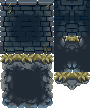
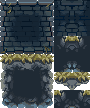
player now collides with ties instead of platforms

Changed region(s): [[0.6, 0.8333, 1.0, 1.0], [0.2, 0.8889, 0.4, 1.0]]

diff --git a/Backtrack/Backtrack/Game.h b/Backtrack/Backtrack/Game.h
@@ -16,7 +16,6 @@
 #include <SFML/Graphics.hpp>
 #include <SFML/Audio.hpp>
 #include "Player.h"
-#include "Platform.h"
 #include "Tile.h"
 
 class Game
@@ -58,12 +57,12 @@ private:
 										 {0,0,0,0,0,0,0,0,0,0,0,0,0,0,0,0,0,0,0,0,0,0,0,0,0,0,0,0,0,0,0,0,0,0,0,0,0,0 },
 										 {0,0,0,0,0,0,0,0,0,0,0,0,0,0,0,0,0,0,0,0,0,0,0,0,0,0,0,0,0,0,0,0,0,0,0,0,0,0 },
 										 {0,0,0,0,0,0,0,0,0,0,0,0,0,0,0,0,0,0,0,0,0,0,0,0,0,0,0,0,0,0,0,0,0,0,0,0,0,0 },
-										 {0,0,0,0,0,0,0,0,0,0,0,0,0,0,0,0,0,0,0,0,0,0,0,0,0,0,0,0,0,0,0,0,0,0,0,0,0,0 },
-										 {0,0,0,0,0,0,0,0,0,0,0,0,0,0,0,0,0,0,0,0,0,0,0,0,0,0,0,0,0,0,0,0,0,0,0,0,0,0 },
-										 {0,0,0,0,0,0,0,0,0,0,0,0,0,0,0,0,0,0,0,0,0,0,0,0,0,0,0,0,0,0,0,0,0,0,0,0,0,0 },
-										 {0,0,0,0,0,0,0,0,0,0,0,0,0,0,0,0,0,0,0,0,0,0,0,0,0,0,0,0,0,0,0,0,0,0,0,0,0,0 },
-										 {0,0,0,0,0,0,0,0,0,0,0,0,0,0,0,0,0,0,0,0,0,0,0,0,0,0,0,0,0,0,0,0,0,0,0,0,0,0 },
-										 {0,0,0,0,0,0,0,0,0,0,0,0,0,0,0,0,0,0,0,0,0,0,0,0,0,0,0,0,0,0,0,0,0,0,0,0,0,0 },
+										 {0,0,0,0,0,0,0,0,0,0,0,0,0,0,0,0,0,0,0,0,0,0,0,0,1,1,0,0,0,0,0,0,0,0,0,0,0,0 },
+										 {0,0,0,0,0,0,0,0,0,0,0,0,0,0,0,0,0,0,0,0,0,0,0,1,1,1,0,0,0,0,0,0,0,0,0,0,0,0 },
+										 {0,0,0,0,0,0,0,0,0,0,0,0,0,0,0,0,0,0,0,0,0,0,0,1,1,0,0,0,0,0,0,0,0,0,0,0,0,0 },
+										 {0,0,0,0,0,0,0,0,0,0,0,0,0,0,0,0,0,0,0,0,0,0,0,0,0,0,0,0,0,0,0,1,1,0,0,0,0,0 },
+										 {0,0,0,0,0,0,0,0,0,0,0,0,0,0,0,0,0,0,0,0,0,0,0,0,0,0,0,0,0,0,0,1,1,1,0,0,0,0 },
+										 {0,0,0,0,0,0,0,0,0,0,0,0,0,0,0,0,0,0,0,0,0,0,0,0,0,0,0,0,0,0,0,0,1,1,0,0,0,0 },
 										 {0,0,0,0,0,0,0,0,0,0,0,0,0,0,0,0,0,0,0,0,1,1,1,1,0,0,0,0,0,0,0,0,0,0,0,0,0,0 },
 										 {0,0,0,0,0,0,0,0,0,0,0,0,0,0,0,0,0,0,0,1,1,1,1,1,1,1,0,0,0,0,0,0,0,0,0,0,0,0 },
 										 {0,0,0,0,0,1,1,1,0,0,0,0,0,0,0,0,0,0,0,1,1,1,1,1,1,1,0,0,0,0,0,0,0,0,0,0,0,0 },
@@ -71,9 +70,9 @@ private:
 										 {0,0,0,0,0,0,1,1,1,1,0,0,0,0,0,0,0,0,0,0,0,1,1,1,1,1,1,1,0,0,0,0,0,0,0,0,0,0 },
 										 {0,0,0,0,0,0,0,0,0,0,0,0,0,0,0,0,0,0,0,0,0,1,1,1,1,1,1,1,0,0,0,0,0,0,0,0,0,0 },
 										 {0,0,0,0,0,0,0,0,0,0,0,1,1,1,0,0,0,0,0,0,0,0,0,1,1,1,0,0,0,0,0,0,0,0,0,0,0,0 },
-										 {0,0,0,1,1,1,1,1,1,1,1,1,1,1,0,0,0,0,0,0,0,0,0,0,0,0,0,0,0,0,0,0,0,0,0,0,0,0 },
-										 {0,0,0,1,1,1,1,1,1,1,1,1,1,0,0,0,0,0,0,0,0,0,0,0,0,0,0,0,0,0,0,0,0,0,0,0,0,0 },
-										 {0,0,0,0,0,0,0,0,0,0,0,0,0,0,0,0,0,0,0,0,0,0,0,0,0,0,0,0,0,0,0,0,0,0,0,0,0,0 },
+										 {0,0,1,1,1,1,1,1,1,1,1,1,1,1,0,0,0,0,0,0,0,0,0,0,0,0,0,0,0,0,0,0,0,0,0,0,0,0 },
+										 {0,0,1,1,1,1,1,1,1,1,1,1,1,0,0,0,0,0,0,0,0,0,0,0,0,0,0,0,0,0,0,0,0,0,0,0,0,0 },
+										 {0,0,0,1,1,1,1,1,0,0,0,0,0,0,0,0,0,0,0,0,0,0,0,0,0,0,0,0,0,0,0,0,0,0,0,0,0,0 },
 										 {0,0,0,0,0,0,0,0,0,0,0,0,0,0,0,0,0,0,0,0,0,0,0,0,0,0,0,0,0,0,0,0,0,0,0,0,0,1 } };
 
 	Tile m_tiles[TILE_ROWS][TILE_COLS];

diff --git a/Backtrack/Backtrack/Game.cpp b/Backtrack/Backtrack/Game.cpp
@@ -112,20 +112,24 @@ void Game::update(sf::Time t_deltaTime)
 		m_window.close();
 	}
 
-	bool noPlatformCollision = true;
+	bool noTileCollision = true;
 
-	for (Platform& platform : m_platforms)
+	for (int row = 0; row < TILE_ROWS; row++)
 	{
-		platform.activateInRange(m_player.getPosition());
-
-		if (platform.isActive() && m_player.checkGroundCollision(platform))
+		for (int col = 0; col < TILE_COLS; col++)
 		{
-			m_player.calculateGroundLevel(platform);
-			noPlatformCollision = false;
+			if (m_grid[row][col] != 0)
+			{
+				if (m_player.checkGroundCollision(m_tiles[row][col]))
+				{
+					m_player.calculateGroundLevel(m_tiles[row][col]);
+					noTileCollision = false;
+				}
+			}
 		}
 	}
 
-	if (noPlatformCollision)
+	if (noTileCollision)
 	{
 		m_player.setGroundLevel(2000.0f);
 	}
@@ -142,14 +146,6 @@ void Game::render()
 	m_window.clear(sf::Color::White);
 
 	//m_window.draw(m_backgroundSprite);
-
-	for (Platform& platform : m_platforms)
-	{
-		if (platform.isActive())
-		{
-			platform.render(m_window);
-		}
-	}
 
 	for (int row = 0; row < TILE_ROWS; row++)
 	{
@@ -212,15 +208,6 @@ void Game::setupImages()
 
 void Game::setupGame()
 {
-	Platform ground;
-	m_platforms.push_back(ground);
-
-	Platform platform1(sf::Vector2f(200.0f, 20.0f), sf::Vector2f(600.0f, 500.0f));
-	m_platforms.push_back(platform1);
-
-	Platform platform2(sf::Vector2f(200.0f, 20.0f), sf::Vector2f(400.0f, 400.0f));
-	m_platforms.push_back(platform2);
-
 	for (int row = 0; row < TILE_ROWS; row++)
 	{
 		for (int col = 0; col < TILE_COLS; col++)

diff --git a/Backtrack/Backtrack/Player.cpp b/Backtrack/Backtrack/Player.cpp
@@ -15,7 +15,7 @@ Player::Player() :
 	m_spritePosition = sf::Vector2f(m_position.x + 6.0f, m_position.y - 6.0f);
 	m_speed = 2.0f;
 
-	m_hitbox.setSize(sf::Vector2f(30.0f, 50.0f));
+	m_hitbox.setSize(sf::Vector2f(60.0f, 90.0f));
 	m_hitbox.setOrigin(m_hitbox.getSize() / 2.0f);
 	m_hitbox.setPosition(m_position);
 	m_hitbox.setFillColor(sf::Color::Transparent);
@@ -176,12 +176,12 @@ void Player::checkState()
 	}
 }
 
-bool Player::checkGroundCollision(Platform& t_platform)
+bool Player::checkGroundCollision(Tile& t_tile)
 {
 	sf::Vector2f bottomCenterPlayer = sf::Vector2f(m_position.x, m_position.y + m_hitbox.getSize().y / 2.0f);
 	bottomCenterPlayer += m_velocity;
 
-	if (t_platform.getShape().getGlobalBounds().contains(bottomCenterPlayer))
+	if (t_tile.getShape().getGlobalBounds().contains(bottomCenterPlayer))
 	{
 		return true;
 	}
@@ -191,9 +191,9 @@ bool Player::checkGroundCollision(Platform& t_platform)
 	}
 }
 
-void Player::calculateGroundLevel(Platform& t_platform)
+void Player::calculateGroundLevel(Tile& t_tile)
 {
-	m_groundLevel = t_platform.getPosition().y - t_platform.getShape().getSize().y / 2.0f - m_hitbox.getSize().y / 2.0f;
+	m_groundLevel = t_tile.getPosition().y - m_hitbox.getSize().y / 2.0f;
 }
 
 void Player::setGroundLevel(float t_groundLevel)

diff --git a/Backtrack/Backtrack/Tile.cpp b/Backtrack/Backtrack/Tile.cpp
@@ -46,8 +46,10 @@ void Tile::setTile(int t_tile, SurroundingTiles t_surrounding)
 
 void Tile::setPosition(sf::Vector2f t_position)
 {
-	rectangle.setPosition(t_position);
-	sprite.setPosition(t_position);
+	position = t_position;
+
+	rectangle.setPosition(position);
+	sprite.setPosition(position);
 }
 
 void Tile::setTexture(const sf::Texture& t_texture)
@@ -209,4 +211,40 @@ void Tile::setTextureRect(SurroundingTiles t_surrounding, int t_tileType)
 			tileRect = grassCornerBottomLeft;
 		}
 	}
+
+	if (t_surrounding.left == 1
+		&& t_surrounding.right == 1
+		&& t_surrounding.top == 1
+		&& t_surrounding.bottom == 1
+		&& t_surrounding.topRight == 0
+		&& t_surrounding.bottomLeft == 0)
+	{
+		if (t_tileType == 1)
+		{
+			tileRect = grassDiagonalLeft;
+		}
+	}
+
+	if (t_surrounding.left == 1
+		&& t_surrounding.right == 1
+		&& t_surrounding.top == 1
+		&& t_surrounding.bottom == 1
+		&& t_surrounding.topLeft == 0
+		&& t_surrounding.bottomRight == 0)
+	{
+		if (t_tileType == 1)
+		{
+			tileRect = grassDiagonalRight;
+		}
+	}
+}
+
+sf::Vector2f Tile::getPosition()
+{
+	return position;
+}
+
+sf::RectangleShape Tile::getShape()
+{
+	return rectangle;
 }

diff --git a/Backtrack/Backtrack/Tile.h b/Backtrack/Backtrack/Tile.h
@@ -27,9 +27,14 @@ public:
 	void setTexture(const sf::Texture& t_texture);
 	void setTextureRect(SurroundingTiles t_surrounding, int t_tileType);
 
+	sf::Vector2f getPosition();
+	sf::RectangleShape getShape();
+
 private:
 
 	const sf::Vector2i TILE_SIZE{ 18, 18 };
+
+	sf::Vector2f position;
 
 	sf::Texture texture;
 
@@ -55,4 +60,7 @@ private:
 	sf::IntRect grassCornerBottomRight{ sf::Vector2i(72, 36), TILE_SIZE };
 	sf::IntRect grassCornerTopLeft{ sf::Vector2i(54, 54), TILE_SIZE };
 	sf::IntRect grassCornerTopRight{ sf::Vector2i(72, 54), TILE_SIZE };
+
+	sf::IntRect grassDiagonalLeft{ sf::Vector2i(72, 90), TILE_SIZE };
+	sf::IntRect grassDiagonalRight{ sf::Vector2i(54, 90), TILE_SIZE };
 };

diff --git a/Backtrack/Backtrack/Player.h b/Backtrack/Backtrack/Player.h
@@ -3,7 +3,7 @@
 #include <iostream>
 #include <SFML/Graphics.hpp>
 #include "PlayerState.h"
-#include "Platform.h"
+#include "Tile.h"
 
 enum class PlayerState
 {
@@ -29,8 +29,8 @@ public:
 	void checkInput();
 	void checkState();
 
-	bool checkGroundCollision(Platform& t_platform);
-	void calculateGroundLevel(Platform& t_platform);
+	bool checkGroundCollision(Tile& t_tile);
+	void calculateGroundLevel(Tile& t_tile);
 
 	void setGroundLevel(float t_groundLevel);
 
